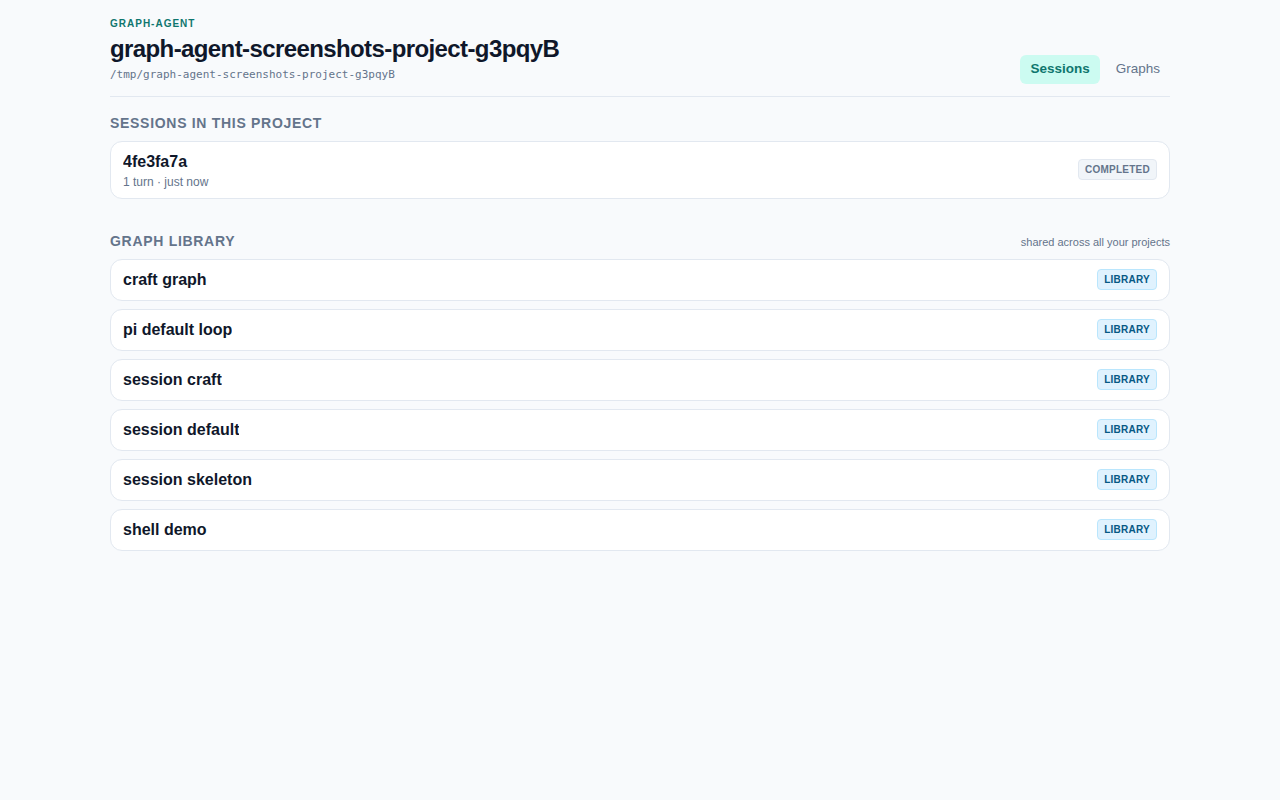
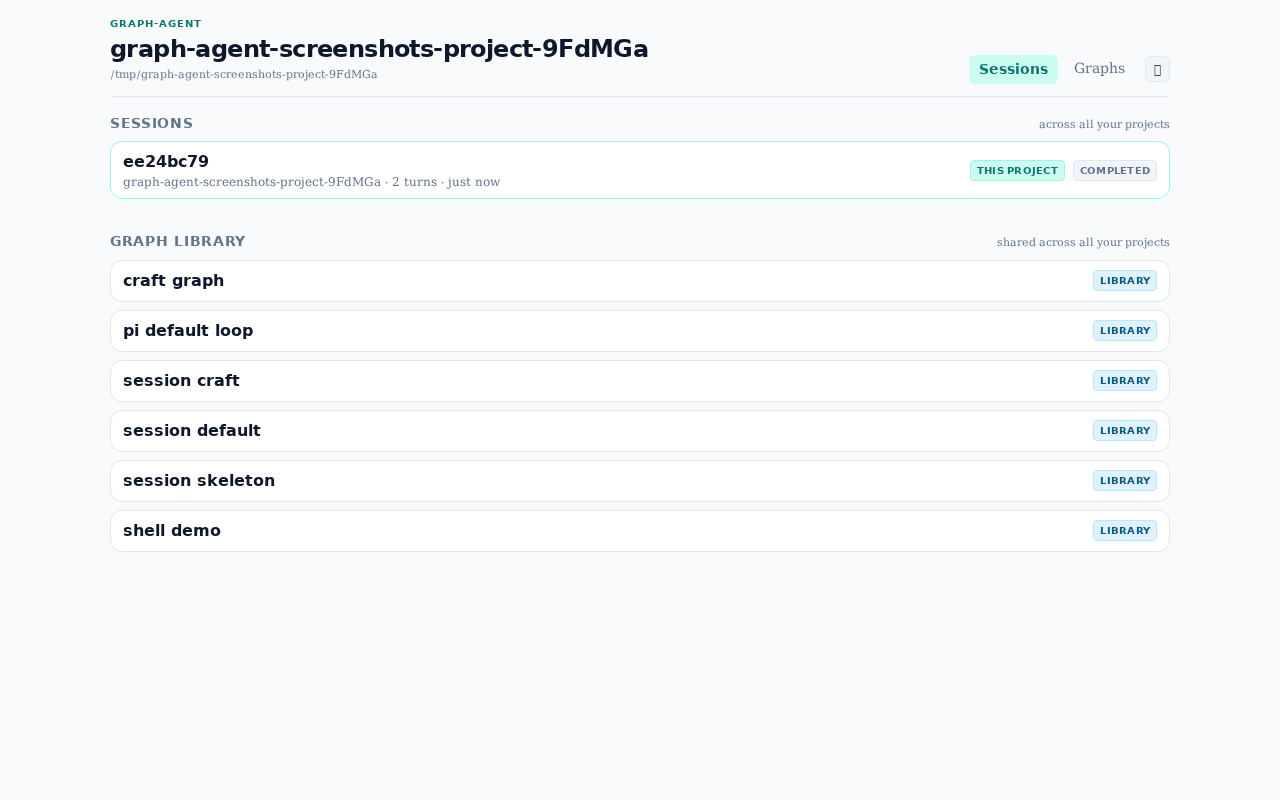
feat(studio): list all user sessions and highlight current project
- Update /api/sessions endpoint to return all user sessions across projects by default while preserving scope=project filtering
- Update project studio page to list all sessions across projects
- Visually highlight sessions matching the current project directory with an accent border and 'THIS PROJECT' badge
- Add projectName helper in shell.ts and unit tests in shell.test.ts and server.test.ts
- Update browser verification and screenshot helper scripts to locate Chromium across environments

diff --git a/src/studio/pages/project.ts b/src/studio/pages/project.ts
@@ -1,7 +1,9 @@
 import { $, escapeHtml } from "../../js/lib/dom";
 import { connectStudioEvents } from "./live";
-import { mountShell, relativeTime, statusChip } from "./shell";
-import type { GraphSummary, SessionSummary } from "../types";
+import { mountShell, projectName, relativeTime, statusChip } from "./shell";
+import type { GraphSummary, ProjectInfo, SessionSummary } from "../types";
+
+let currentProject: ProjectInfo | null = null;
 
 async function loadSessions(): Promise<void> {
   const host = $("sessions");
@@ -12,17 +14,27 @@ async function loadSessions(): Promise<void> {
   const sessions: SessionSummary[] = await res.json();
   empty?.classList.toggle("hidden", sessions.length > 0);
   host.innerHTML = sessions
-    .map(
-      (s) => `
+    .map((s) => {
+      const isCurrent = Boolean(currentProject && s.project === currentProject.id);
+      const projectBadge = isCurrent
+        ? `<span class="text-[10px] uppercase tracking-wide font-bold px-1.5 py-0.5 rounded border text-accent border-accent-border bg-accent-dim">this project</span>`
+        : `<span class="text-[10px] text-muted border border-line bg-panel-header px-1.5 py-0.5 rounded font-mono truncate max-w-[140px]" title="${escapeHtml(s.project || "")}">${escapeHtml(projectName(s.project))}</span>`;
+
+      return `
       <a href="/session?id=${encodeURIComponent(s.id)}"
-         class="flex items-center justify-between gap-3 bg-panel border border-line rounded-lg px-3 py-2 hover:bg-card-hover hover:border-line-highlight transition-colors">
+         class="flex items-center justify-between gap-3 bg-panel border ${
+           isCurrent ? "border-accent-border" : "border-line"
+         } rounded-lg px-3 py-2 hover:bg-card-hover hover:border-line-highlight transition-colors">
         <span class="min-w-0">
           <span class="block font-semibold text-ink truncate">${escapeHtml(s.name || s.id)}</span>
-          <span class="block text-xs text-muted">${s.turnCount} turn${s.turnCount === 1 ? "" : "s"} &middot; ${escapeHtml(relativeTime(s.updatedAt))}</span>
+          <span class="block text-xs text-muted truncate">${escapeHtml(projectName(s.project))} &middot; ${s.turnCount} turn${s.turnCount === 1 ? "" : "s"} &middot; ${escapeHtml(relativeTime(s.updatedAt))}</span>
         </span>
-        ${statusChip(s.status)}
-      </a>`,
-    )
+        <div class="flex items-center gap-2 shrink-0">
+          ${projectBadge}
+          ${statusChip(s.status)}
+        </div>
+      </a>`;
+    })
     .join("");
 }
 
@@ -47,7 +59,7 @@ async function loadGraphs(): Promise<void> {
 }
 
 async function init(): Promise<void> {
-  await mountShell("project");
+  currentProject = await mountShell("project");
   await Promise.all([loadSessions(), loadGraphs()]);
 
   connectStudioEvents("/ws", (event) => {
@@ -57,3 +69,4 @@ async function init(): Promise<void> {
 }
 
 void init();
+

diff --git a/src/studio/server.test.ts b/src/studio/server.test.ts
@@ -61,9 +61,9 @@ const graphWithoutGate = `<?xml version="1.0" encoding="UTF-8"?>
   </bpmn:process>
 </bpmn:definitions>`;
 
-function createSession(id: string, live: string[] = []): SessionStore {
+function createSession(id: string, live: string[] = [], sessionProject: string = project): SessionStore {
   const store = new SessionStore(paths, id);
-  store.create(project);
+  store.create(sessionProject);
   store.appendGraph(graph, "started", []);
   store.update((meta) => {
     meta.visited = live;
@@ -81,6 +81,38 @@ beforeEach(async () => {
 
 afterEach(async () => {
   await studio.close();
+});
+
+describe("GET /api/sessions", () => {
+  it("returns all sessions across projects by default", async () => {
+    createSession("s1", [], project);
+    createSession("s2", [], "/tmp/other-project");
+
+    const res = await fetch(`${studio.url}/api/sessions`);
+    expect(res.status).toBe(200);
+    const sessions = (await res.json()) as Array<{ id: string; project: string }>;
+    expect(sessions.map((s) => s.id).sort()).toEqual(["s1", "s2"]);
+  });
+
+  it("filters to project when scope=project is requested", async () => {
+    createSession("s1", [], project);
+    createSession("s2", [], "/tmp/other-project");
+
+    const res = await fetch(`${studio.url}/api/sessions?scope=project`);
+    expect(res.status).toBe(200);
+    const sessions = (await res.json()) as Array<{ id: string; project: string }>;
+    expect(sessions.map((s) => s.id)).toEqual(["s1"]);
+  });
+
+  it("returns all sessions when scope=all is requested", async () => {
+    createSession("s1", [], project);
+    createSession("s2", [], "/tmp/other-project");
+
+    const res = await fetch(`${studio.url}/api/sessions?scope=all`);
+    expect(res.status).toBe(200);
+    const sessions = (await res.json()) as Array<{ id: string; project: string }>;
+    expect(sessions.map((s) => s.id).sort()).toEqual(["s1", "s2"]);
+  });
 });
 
 describe("GET /api/sessions/:id/graph", () => {

diff --git a/src/studio/pages/project.html b/src/studio/pages/project.html
@@ -33,11 +33,12 @@
 
   <section class="mb-8">
     <div class="flex items-baseline justify-between mb-2">
-      <h2 class="text-sm font-bold uppercase tracking-wider text-muted">Sessions in this project</h2>
+      <h2 class="text-sm font-bold uppercase tracking-wider text-muted">Sessions</h2>
+      <span class="text-[11px] text-muted">across all your projects</span>
     </div>
     <div id="sessions" class="grid gap-2"></div>
     <p id="sessions-empty" class="hidden text-muted text-sm py-6">
-      No sessions yet. Start one with <code class="font-mono text-xs bg-panel-header px-1 py-0.5 rounded">graph-agent run "&hellip;"</code> in this directory.
+      No sessions yet. Start one with <code class="font-mono text-xs bg-panel-header px-1 py-0.5 rounded">graph-agent run "&hellip;"</code>.
     </p>
   </section>
 

diff --git a/src/studio/pages/shell.test.ts b/src/studio/pages/shell.test.ts
@@ -1,5 +1,6 @@
 import { describe, it, expect, beforeEach, vi } from "vitest";
-import { mountShell, relativeTime, statusChip } from "./shell";
+import { mountShell, projectName, relativeTime, statusChip } from "./shell";
+
 
 beforeEach(() => {
   document.body.innerHTML = "";
@@ -74,3 +75,14 @@ describe("statusChip", () => {
     expect(statusChip("completed")).toContain("text-muted");
   });
 });
+
+describe("projectName", () => {
+  it("extracts the project name from a path", () => {
+    expect(projectName("/path/to/my-project")).toBe("my-project");
+    expect(projectName("/path/to/my-project/")).toBe("my-project");
+    expect(projectName("my-project")).toBe("my-project");
+    expect(projectName("")).toBe("");
+    expect(projectName(undefined)).toBe("");
+  });
+});
+

diff --git a/src/studio/server.ts b/src/studio/server.ts
@@ -168,9 +168,13 @@ async function handle(
     return sendJson(res, 200, info);
   }
 
-  // ---- sessions, this project's unless asked otherwise
+  // ---- sessions, all sessions across projects unless scoped
   if (path === "/api/sessions") {
-    const scope = url.searchParams.get("scope") === "all" ? undefined : project;
+    const scopeParam = url.searchParams.get("scope");
+    const scope =
+      scopeParam === "project"
+        ? project
+        : (url.searchParams.get("project") ?? (scopeParam === "all" || !scopeParam ? undefined : scopeParam));
     return sendJson(res, 200, listSessions(paths, scope).map((s) => s.summary()));
   }
   const sessionMatch = /^\/api\/sessions\/([^/]+)$/.exec(path);

diff --git a/src/studio/pages/shell.ts b/src/studio/pages/shell.ts
@@ -71,3 +71,10 @@ export function statusChip(status: string): string {
           : "text-muted border-line bg-panel-header";
   return `<span class="text-[10px] uppercase tracking-wide font-bold px-1.5 py-0.5 rounded border ${tone}">${escapeHtml(status)}</span>`;
 }
+
+/** Short display name for a project directory path. */
+export function projectName(id?: string): string {
+  if (!id) return "";
+  return id.split("/").filter(Boolean).pop() ?? id;
+}
+
